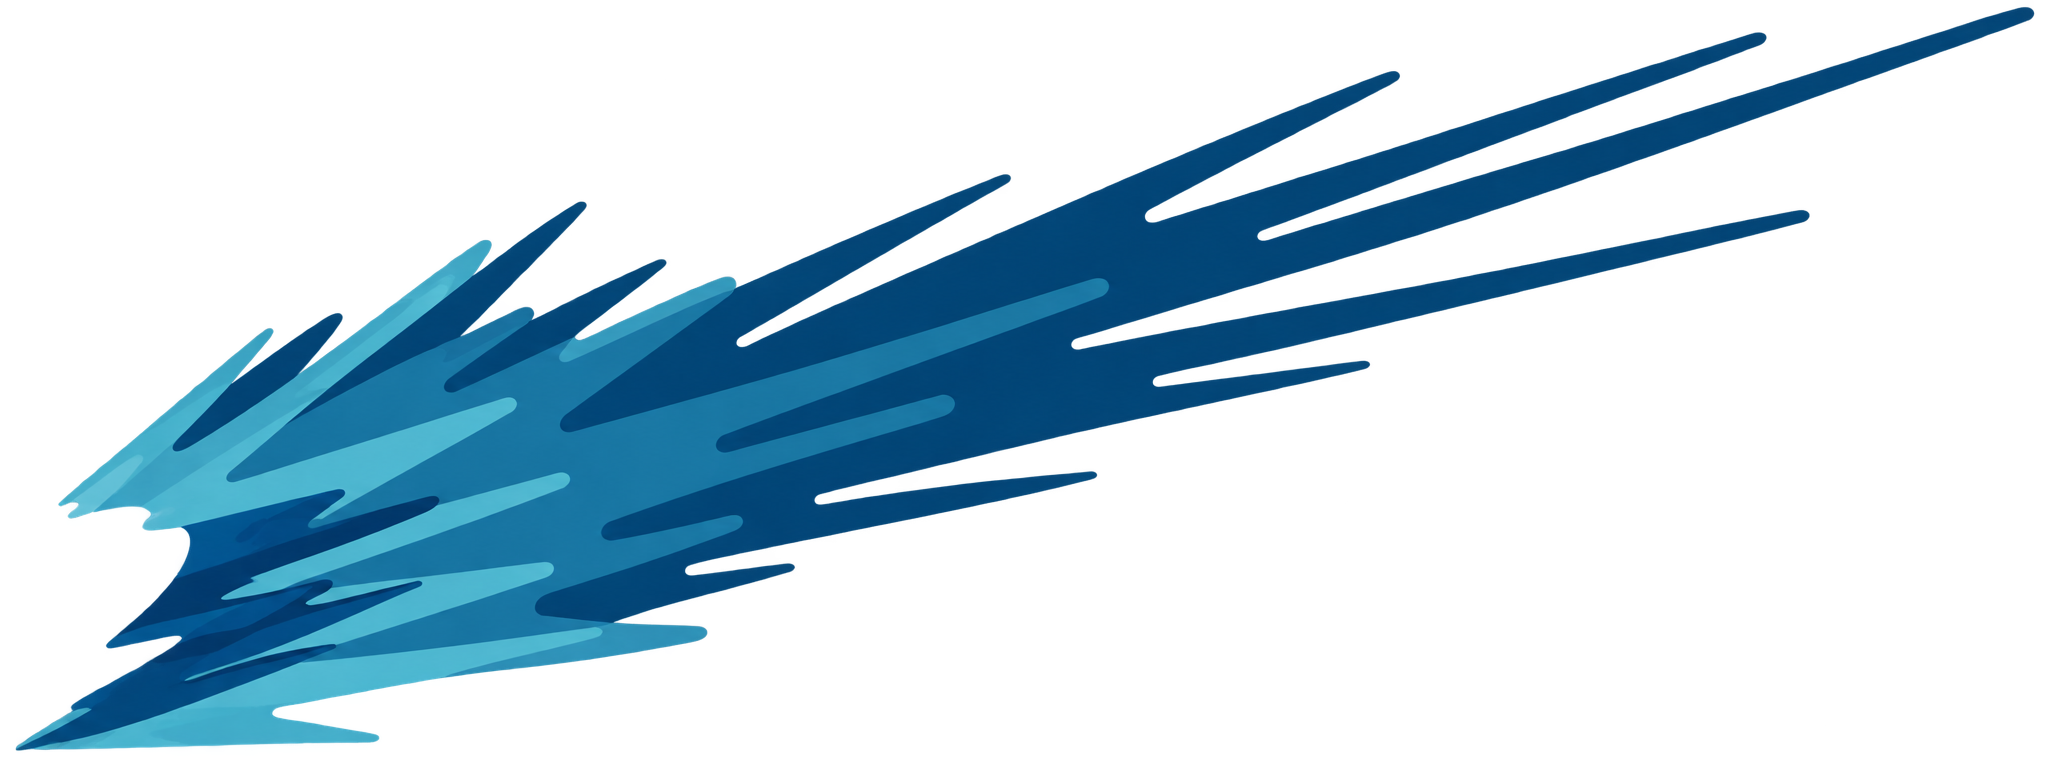
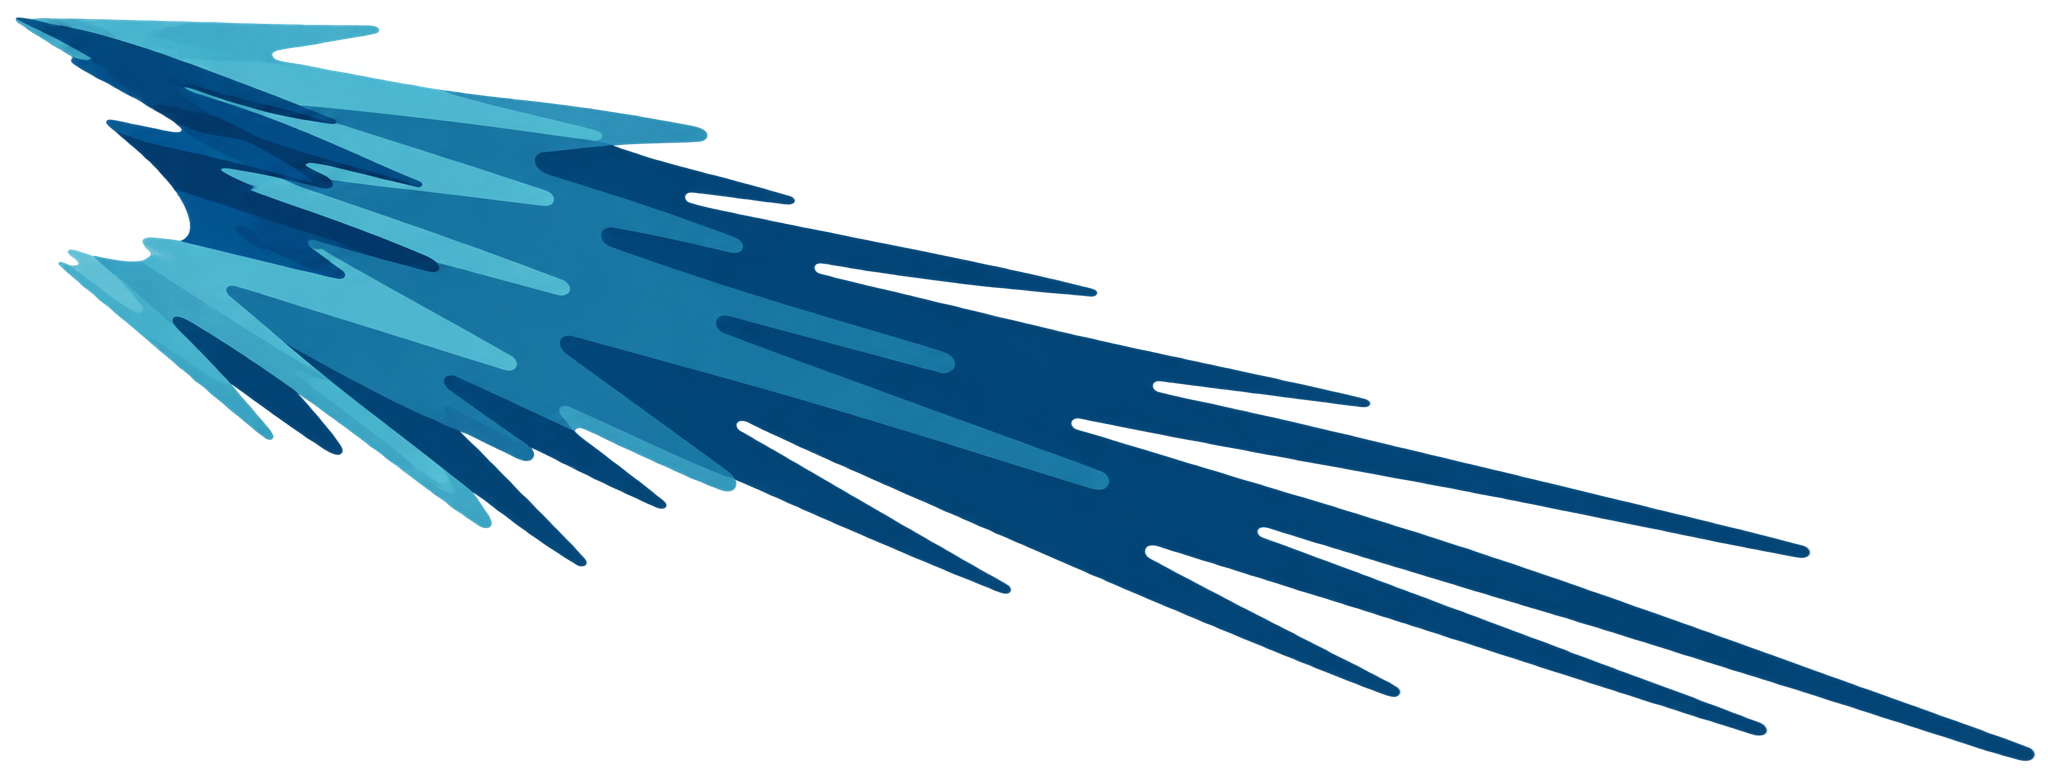
Adjust Interloper tail artwork positioning

diff --git a/src/components/Interloper.tsx b/src/components/Interloper.tsx
@@ -137,7 +137,7 @@ export const Interloper = forwardRef<InterloperHandle, InterloperProps>(function
           transform={`rotate(${initialState.tailRotationDegrees})`}
           aria-hidden="true"
         >
-          {imageArtwork ? <image className="body-image interloper-tail-image" href={imageAssetUrl('the_interloper_tail.png')} x={-8} y={-47.5} width={190} height={95} preserveAspectRatio="xMidYMid meet" /> : null}
+          {imageArtwork ? <image className="body-image interloper-tail-image" href={imageAssetUrl('the_interloper_tail.png')} x={-8} y={-30} width={190} height={95} preserveAspectRatio="xMidYMid meet" transform="rotate(-20)" /> : null}
           <path className="comet-tail__plume" d="M4,-7 C50,-17 118,-13 190,0 C118,13 50,17 4,7 Z" fill={`url(#${tailGradientId})`} />
           <path className="comet-tail__filament" d="M7,0 Q78,-7 166,2" />
         </g>

diff --git a/src/App.test.tsx b/src/App.test.tsx
@@ -252,7 +252,7 @@ describe('planetary atlas application UI', () => {
     expect(document.querySelector('.body-image--sun')?.getAttribute('href')).toMatch(/\/images\/sun\.png$/);
     expect(Number(document.querySelector('.body-image--sun')?.getAttribute('width'))).toBeGreaterThan(86);
     expect(document.querySelector('.interloper-tail-image')?.getAttribute('href')).toMatch(/the_interloper_tail\.png$/);
-    expect(document.querySelector('.interloper-tail-image')).not.toHaveAttribute('transform');
+    expect(document.querySelector('.interloper-tail-image')).toHaveAttribute('transform', 'rotate(10)');
   });
 
   it('moves the settings trigger beside an open information panel', async () => {

diff --git a/PROJECT_REPORT.md b/PROJECT_REPORT.md
@@ -133,6 +133,7 @@ The center of the application is a scalable SVG view of the solar system. It inc
 - Orientation is kept on a separate wrapper so hover/focus scaling cannot overwrite it.
 - Alternative artwork mode uses `the_interloper_tail.png` for the Interloper tail while retaining live anti-solar rotation.
 - The alternative tail asset is locally translated to center its comet head on the Interloper position.
+- The alternative tail image has a fixed 10° local rotation that can be tuned directly in `Interloper.tsx`.
 - Hourglass Twins use standard planet-style shared solar orbit lines and moon-style binary orbit lines; hovering or selecting/following the composite twin target highlights the binary orbit and sand beam without affecting individual twin hovers.
 - Composite hover now limits the highlight to the twins’ binary orbit and sand beam; the shared solar orbit receives no hover styling and responds only to selection/focus.
 - The pause/play control uses CSS-drawn bars and a triangle, avoiding platform-dependent text glyphs.

diff --git a/ATLAS_REPORT.md b/ATLAS_REPORT.md
@@ -287,6 +287,7 @@ The Interloper image keeps a fixed 180° local flip within the anti-solar orient
 The orientation wrapper remains independent from hover/focus scaling, preserving the solar-facing direction during interaction.
 Alternative artwork mode uses `the_interloper_tail.png` for the Interloper tail while retaining live anti-solar rotation.
 It is also locally translated so the illustrated comet head is centered on the Interloper’s orbital position.
+The alternative tail includes a tunable fixed 10° local rotation.
 It is sized slightly larger with a clearer gap before the percentage.
 It is rendered as the final settings-menu option with a separator above it.
 Orbit and label controls use matching state-aware Show/Hide wording.
